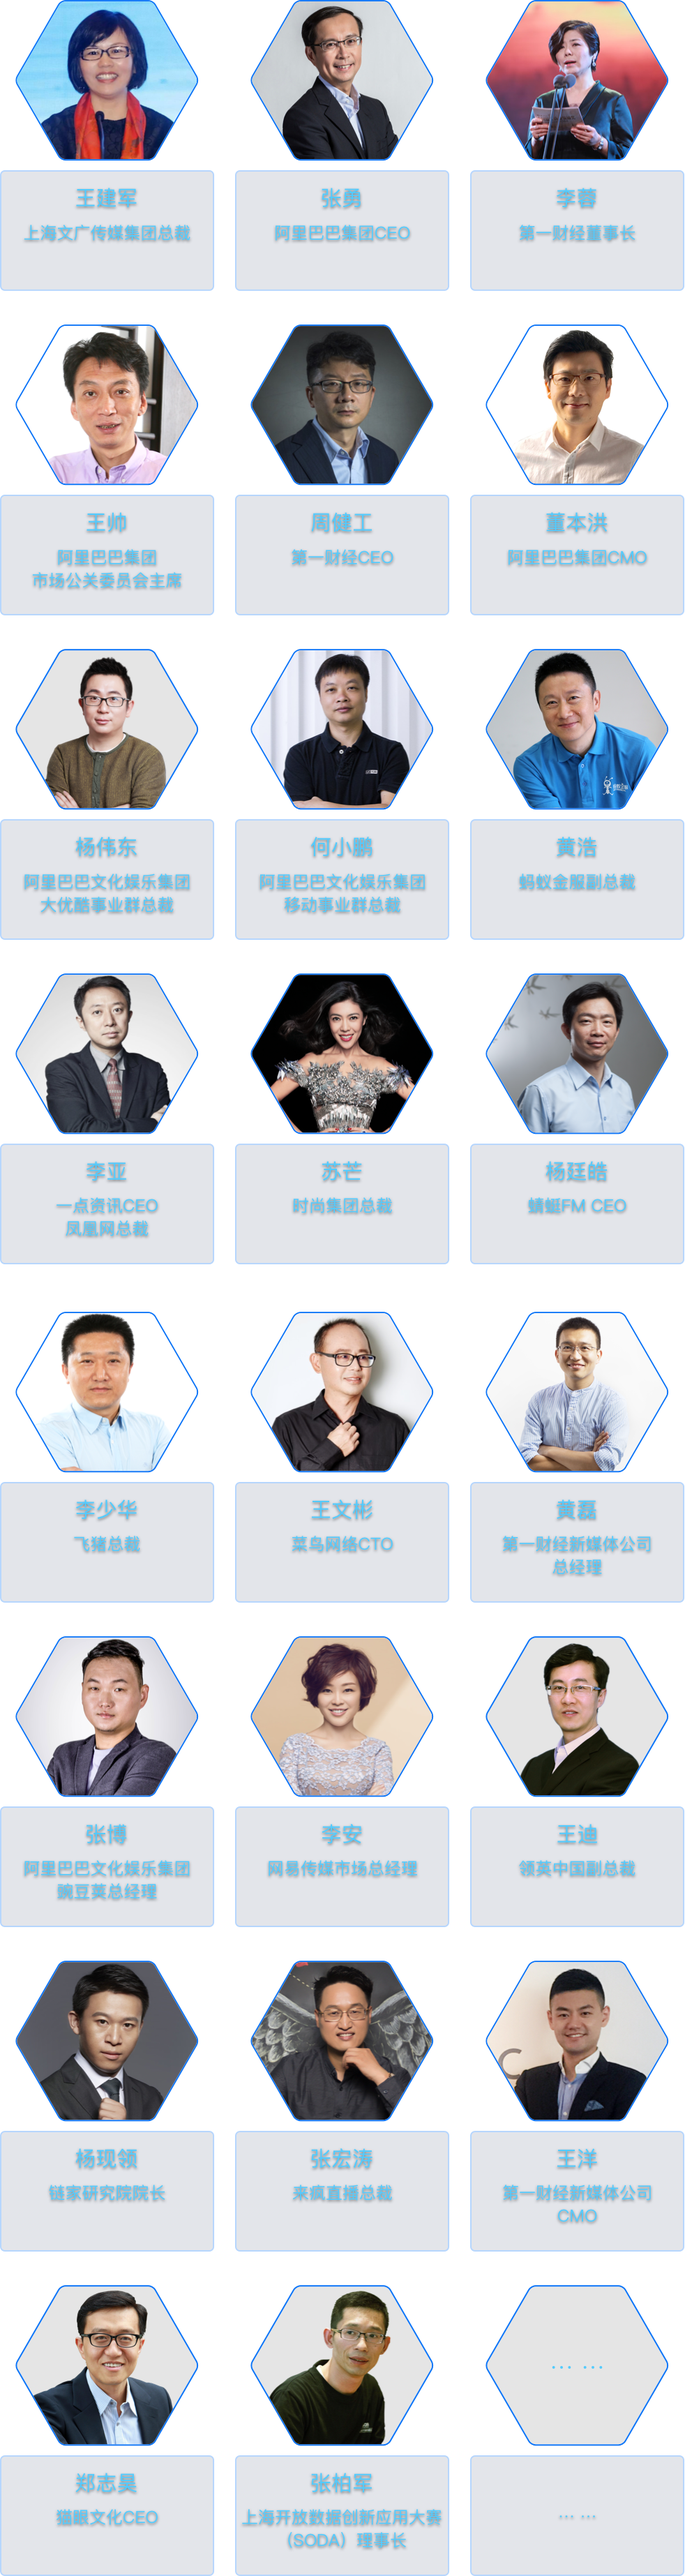
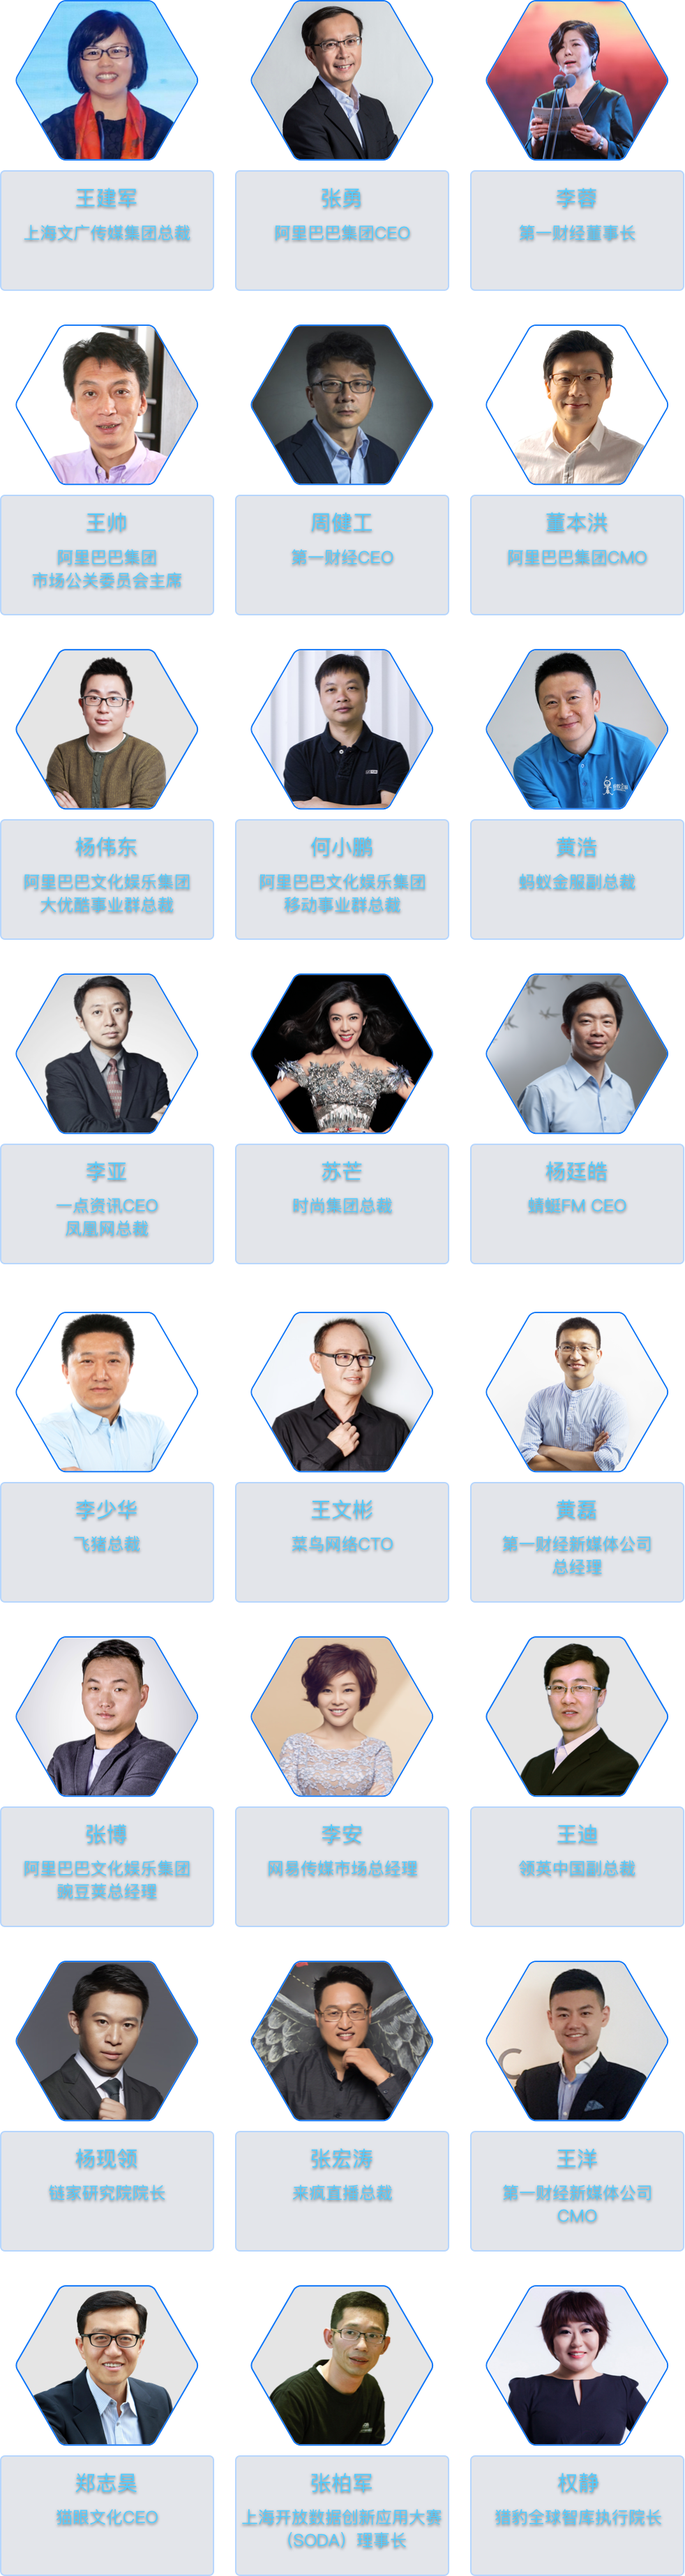
finished video part

Changed region(s): [[0.7332, 0.8722, 0.947, 0.9967]]

diff --git a/src/index.html b/src/index.html
@@ -85,13 +85,13 @@
             </div>
 
             <div class="video2-wrapper">
-                <img src="images/video-placeholder.png">
-                <!--<div class="video2-frame">
-                    <video controls width="90%" class="video2">
-                        <source src="videos/video.mp4" type="video/mp4">
+                <!--<img src="images/video-placeholder.png">-->
+                <div class="video2-frame">
+                    <video controls width="90%" class="video2" id="video2">
+                        <source src="http://z.dtcj.com/cbndata/fiesta/2016/assets/video2.mp4" type="video/mp4">
                         您的浏览器不支持mp4视频播放
                     </video>
-                </div>-->
+                </div>
                 <div class="float-obj float-element-1"></div>
             </div>
 
@@ -192,7 +192,7 @@
                     </div><div class="hex-unit">
                         <div class="image-wrapper" style="background-image:url(./images/leaders/person8.png)">
                             <div class="leader-name description">何小鹏</div>
-                            <div class="leader-info description">阿里移动事业部总裁</div>
+                            <div class="leader-info description">阿里巴巴文化娱乐集团<br>移动事业群总裁</div>
                         </div>
                     </div>
                     <div class="hex-unit">
@@ -277,16 +277,12 @@
                         </div>
                     </div>
                     <div class="hex-unit no-person">
-                        <div class="image-wrapper"
-                             style="font-size:28px;justify-content: center;">… …
-                            <div class="leader-name description"></div>
-                            <div class="leader-info description"></div>
+                        <div class="image-wrapper" style="background-image:url(./images/leaders/person24.png)">
+                            <div class="leader-name description">权静</div>
+                            <div class="leader-info description">猎豹全球智库执行院长</div>
                         </div>
                     </div>
                 </div>
-
-
-
 
             </div>
             <div class="leaders-wrapper-mobile mobile-only" id="leadersWrapperMobile">

diff --git a/src/js/home.js b/src/js/home.js
@@ -72,9 +72,6 @@ $(function(){
         var bodyHeight = $('body').height();
         var maxScrollY = bodyHeight - HEIGHT;
         $(window).on('scroll', function () {
-
-            // return;
-
             if (scrollTriggered) return;
             scrollTriggered = true;
             setTimeout(function () {
@@ -88,8 +85,6 @@ $(function(){
                         bgImg.style.backgroundPosition = 'left 0 top ' + (currentY-HEIGHT)/3 + 'px';
                         $floatObj[0].style.top = 400 - (currentY-HEIGHT)/3 + 'px';
                         $floatObj[1].style.top = 600 - (currentY-HEIGHT)/2 + 'px';
-                    } else {
-                        // bgImg.style.top = HEIGHT + 'px';
                     }
                     // decide whether to show 'go-to-top button' or not
                     if (currentY > window.innerHeight * 0.8) {
@@ -97,9 +92,6 @@ $(function(){
                     } else {
                         $btnTop.fadeOut(600);
                     }
-                } else {
-
-
                 }
                 currentY = nextY;
             }, 0.015 * 1000);

diff --git a/src/css/main.css b/src/css/main.css
@@ -34,7 +34,7 @@ body {
     background-repeat: no-repeat;
     background-position: center center;
     min-height: 120px;
-    z-index: 10;
+    z-index: 100;
     position: fixed;
   }
 }
@@ -457,7 +457,7 @@ body {
     margin-bottom: 0.4rem;
   }
   .leaders-wrapper .hex-unit .leader-info {
-    font-size: 14px;
+    font-size: 12px;
   }
   .leaders-wrapper .hex-unit .description {
     white-space: nowrap;
@@ -1608,10 +1608,10 @@ img, .image {
           align-items: center;
 }
 
-@media (max-width: 720px) {
+@media (min-width: 720px) {
   .video2-frame {
     width: 100%;
-    height: 520px;
+    height: 516px;
   }
 }
 
@@ -1619,5 +1619,24 @@ img, .image {
   .video2-frame {
     width: 100vw;
     height: 64vw;
+  }
+}
+
+.video2-frame .video2 {
+  position: relative;
+  z-index: 50;
+  -webkit-box-shadow: 0 0 8px #0b6de9;
+          box-shadow: 0 0 8px #0b6de9;
+}
+
+@media (min-width: 720px) {
+  .video2-frame .video2 {
+    top: -6px;
+  }
+}
+
+@media (max-width: 720px) {
+  .video2-frame .video2 {
+    top: -1vw;
   }
 }

diff --git a/src/scss/main.scss b/src/scss/main.scss
@@ -360,13 +360,25 @@ img, .image {
   position: relative;
   @include my-flex();
 
-  @media #{$mobile} {
+  @media #{$PC} {
     width: 100%;
-    height: 520px;
+    height: 516px;
   }
   @media #{$mobile} {
     width: 100vw;
     height: 64vw;
+  }
+
+  .video2 {
+    position: relative;
+    z-index: 50;
+    box-shadow: 0 0 8px #0b6de9;
+    @media #{$PC} {
+      top: -6px;
+    }
+    @media #{$mobile} {
+      top: -1vw;
+    }
   }
 
 }

diff --git a/src/scss/_navigation.scss b/src/scss/_navigation.scss
@@ -9,7 +9,7 @@ body{
   @media #{$PC} {
     @include div-with-bgImage('../images/nav-bg.png');
     min-height: 120px;
-    z-index: 10;
+    z-index: 100;
     position: fixed;
 
   }

diff --git a/src/scss/_leaders.scss b/src/scss/_leaders.scss
@@ -82,7 +82,7 @@
         margin-bottom: 0.4rem;
       }
       .leader-info {
-        font-size: 14px;
+        font-size: 12px;
       }
 
       .description {
